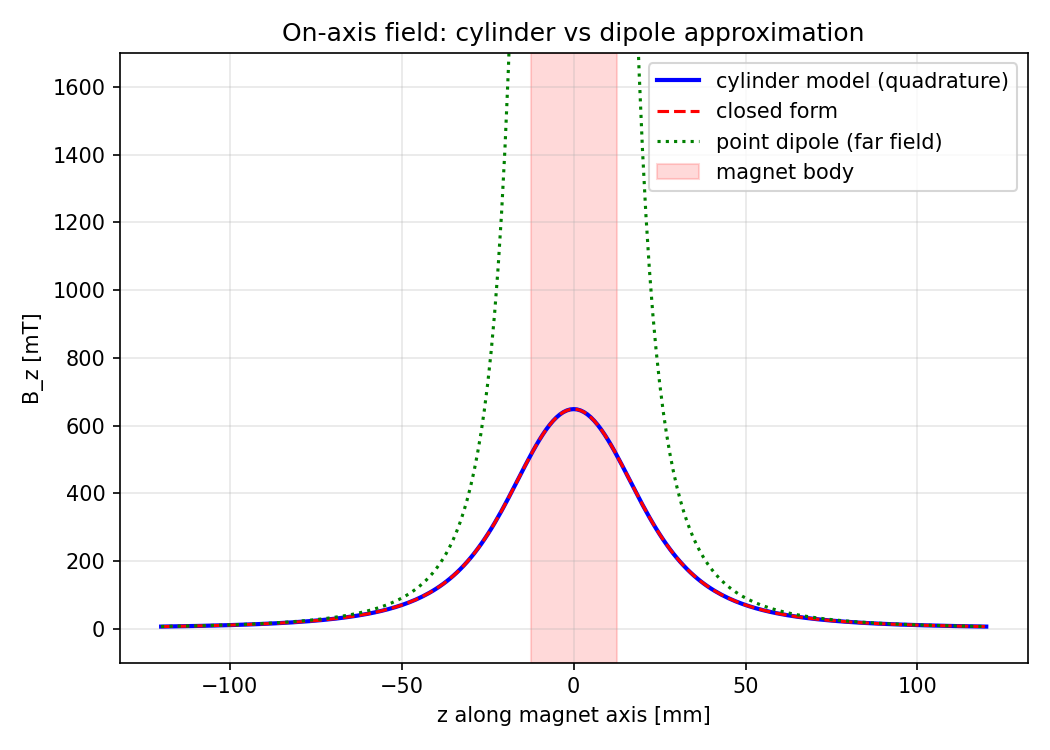
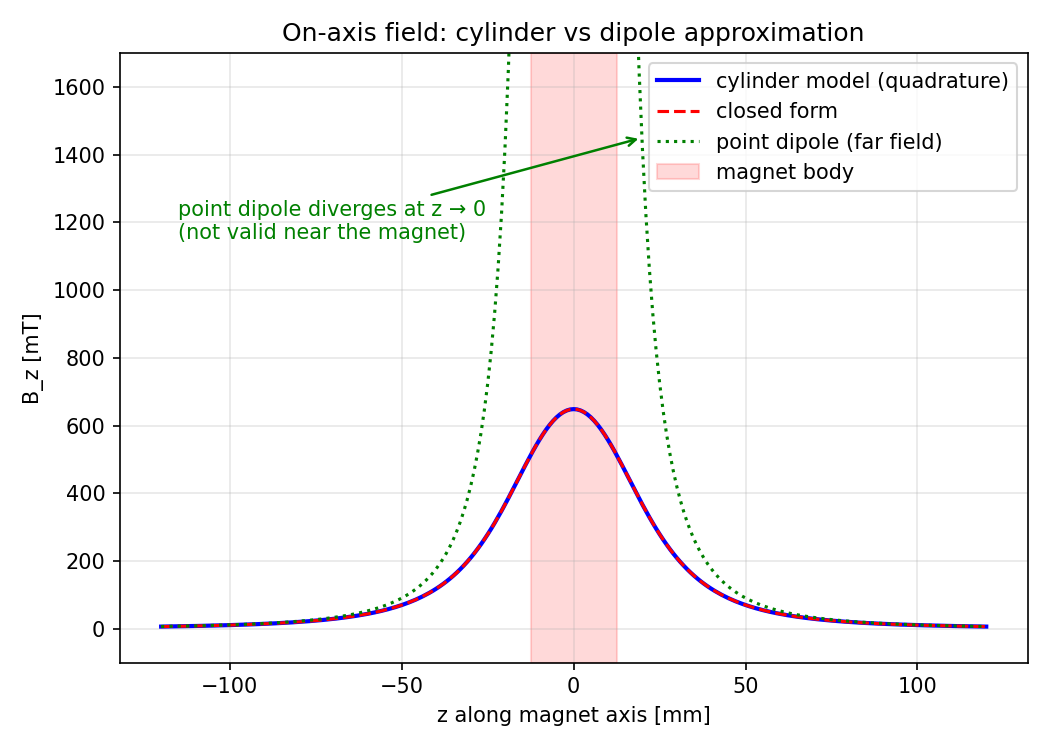
Clarify on_axis_field figure: annotate dipole divergence, hide it inside the magnet
- green point-dipole curve is now masked inside the magnet body (|z| < L/2):
  a point dipole has no physical meaning there
- annotation explains that the dipole model diverges at z -> 0 (B ~ 1/|z|^3)
  and is valid only in the far field

Changed region(s): [[0.1524, 0.2453, 0.4571, 0.3373], [0.5486, 0.184, 0.6095, 0.2147], [0.4571, 0.2147, 0.5181, 0.2453]]

diff --git a/src/magnetic_field_model/scripts/plot_field.py b/src/magnetic_field_model/scripts/plot_field.py
@@ -112,8 +112,9 @@ def plot_on_axis(magnet, outdir):
     z = np.linspace(-0.12, 0.12, 241)
     pts = np.column_stack([np.zeros_like(z), np.zeros_like(z), z])
     B_cyl = magnet.field(pts)[:, 2]
-    # point dipole is singular at z = 0 -> show it only outside |z| > 5 mm
-    z_dip = np.where(np.abs(z) < 5e-3, np.nan, z)
+    # point dipole is singular at z = 0 and has no physical meaning inside
+    # the magnet body -> show it only outside |z| > L/2
+    z_dip = np.where(np.abs(z) < LENGTH / 2, np.nan, z)
     pts_dip = np.column_stack([np.zeros_like(z), np.zeros_like(z),
                                np.nan_to_num(z_dip, nan=1.0)])
     with np.errstate(invalid='ignore'):
@@ -127,6 +128,11 @@ def plot_on_axis(magnet, outdir):
     ax.plot(z * 1e3, B_dip * 1e3, 'g:', lw=1.5, label='point dipole (far field)')
     ax.axvspan(-LENGTH / 2 * 1e3, LENGTH / 2 * 1e3, color='r', alpha=0.15,
                label='magnet body')
+    # explain the diverging green branches (B ~ 1/|z|^3 -> inf at z = 0)
+    ax.annotate('point dipole diverges at z → 0\n(not valid near the magnet)',
+                xy=(20.0, 1450.0), xytext=(-115.0, 1150.0),
+                arrowprops=dict(arrowstyle='->', color='g', lw=1.2),
+                fontsize=10, color='g')
     ax.set_xlabel('z along magnet axis [mm]')
     ax.set_ylabel('B_z [mT]')
     ax.set_title('On-axis field: cylinder vs dipole approximation')
